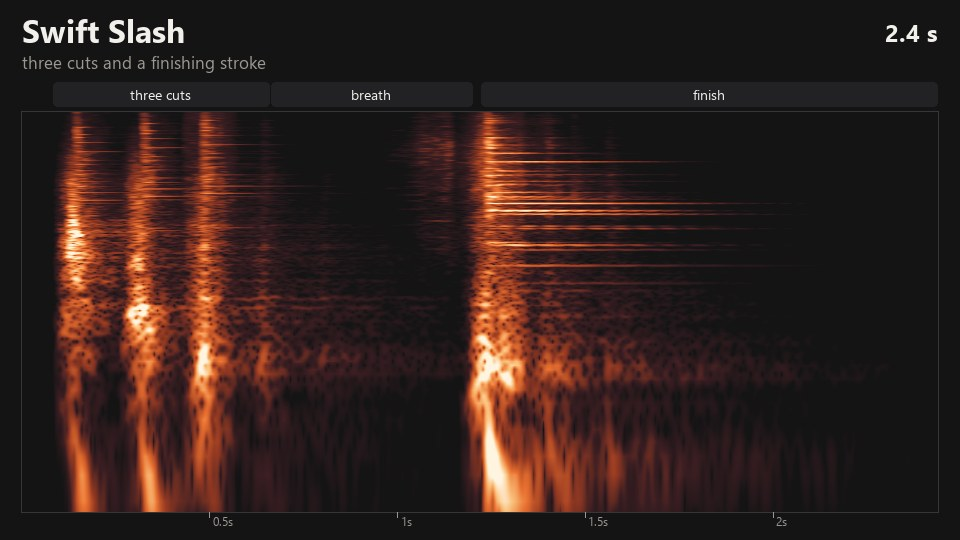
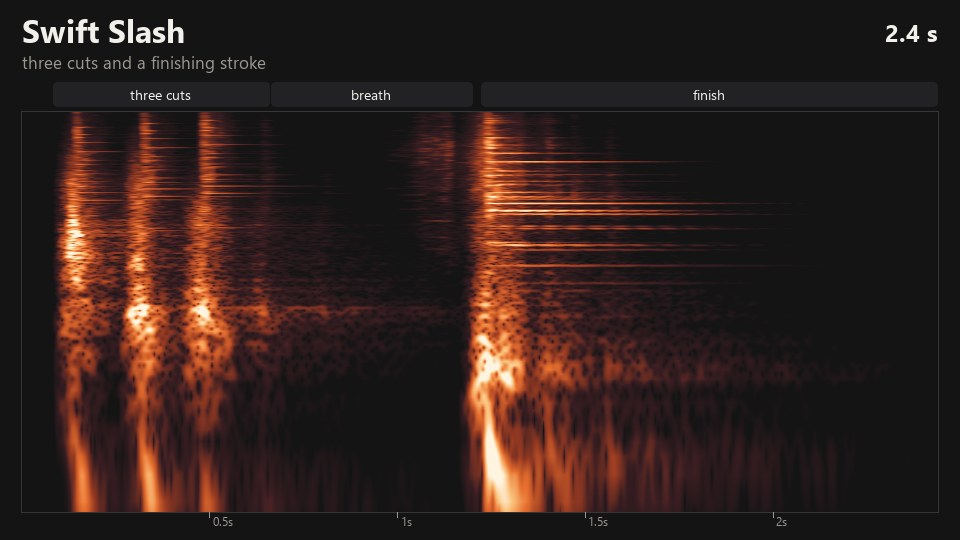
Play the new scene video in the READMEs
The Listen section now plays the new version of The Rain Shrine, and the
Swift Slash card shows its new sound.

Changed region(s): [[0.1875, 0.2074, 0.4375, 0.9481]]

diff --git a/README.md b/README.md
@@ -31,7 +31,7 @@ A short scene from an original game and six sounds. An agent built each sound wi
 
 **Turn the sound on.** *The Rain Shrine*, 0:40: through the rain and an iron gate, something in the dark, a seal and a blade, a relic, and back out into the rain. [MP3](https://github.com/owoevan-dev/sfx-skill/releases/download/examples-1/the-rain-shrine.mp3)
 
-https://github.com/user-attachments/assets/0f08b86d-b744-4c4c-82b7-ad6162b852ea
+https://github.com/user-attachments/assets/b1f86b78-aa98-479a-9723-d7fdb83895d8
 
 <table>
 <tr>
